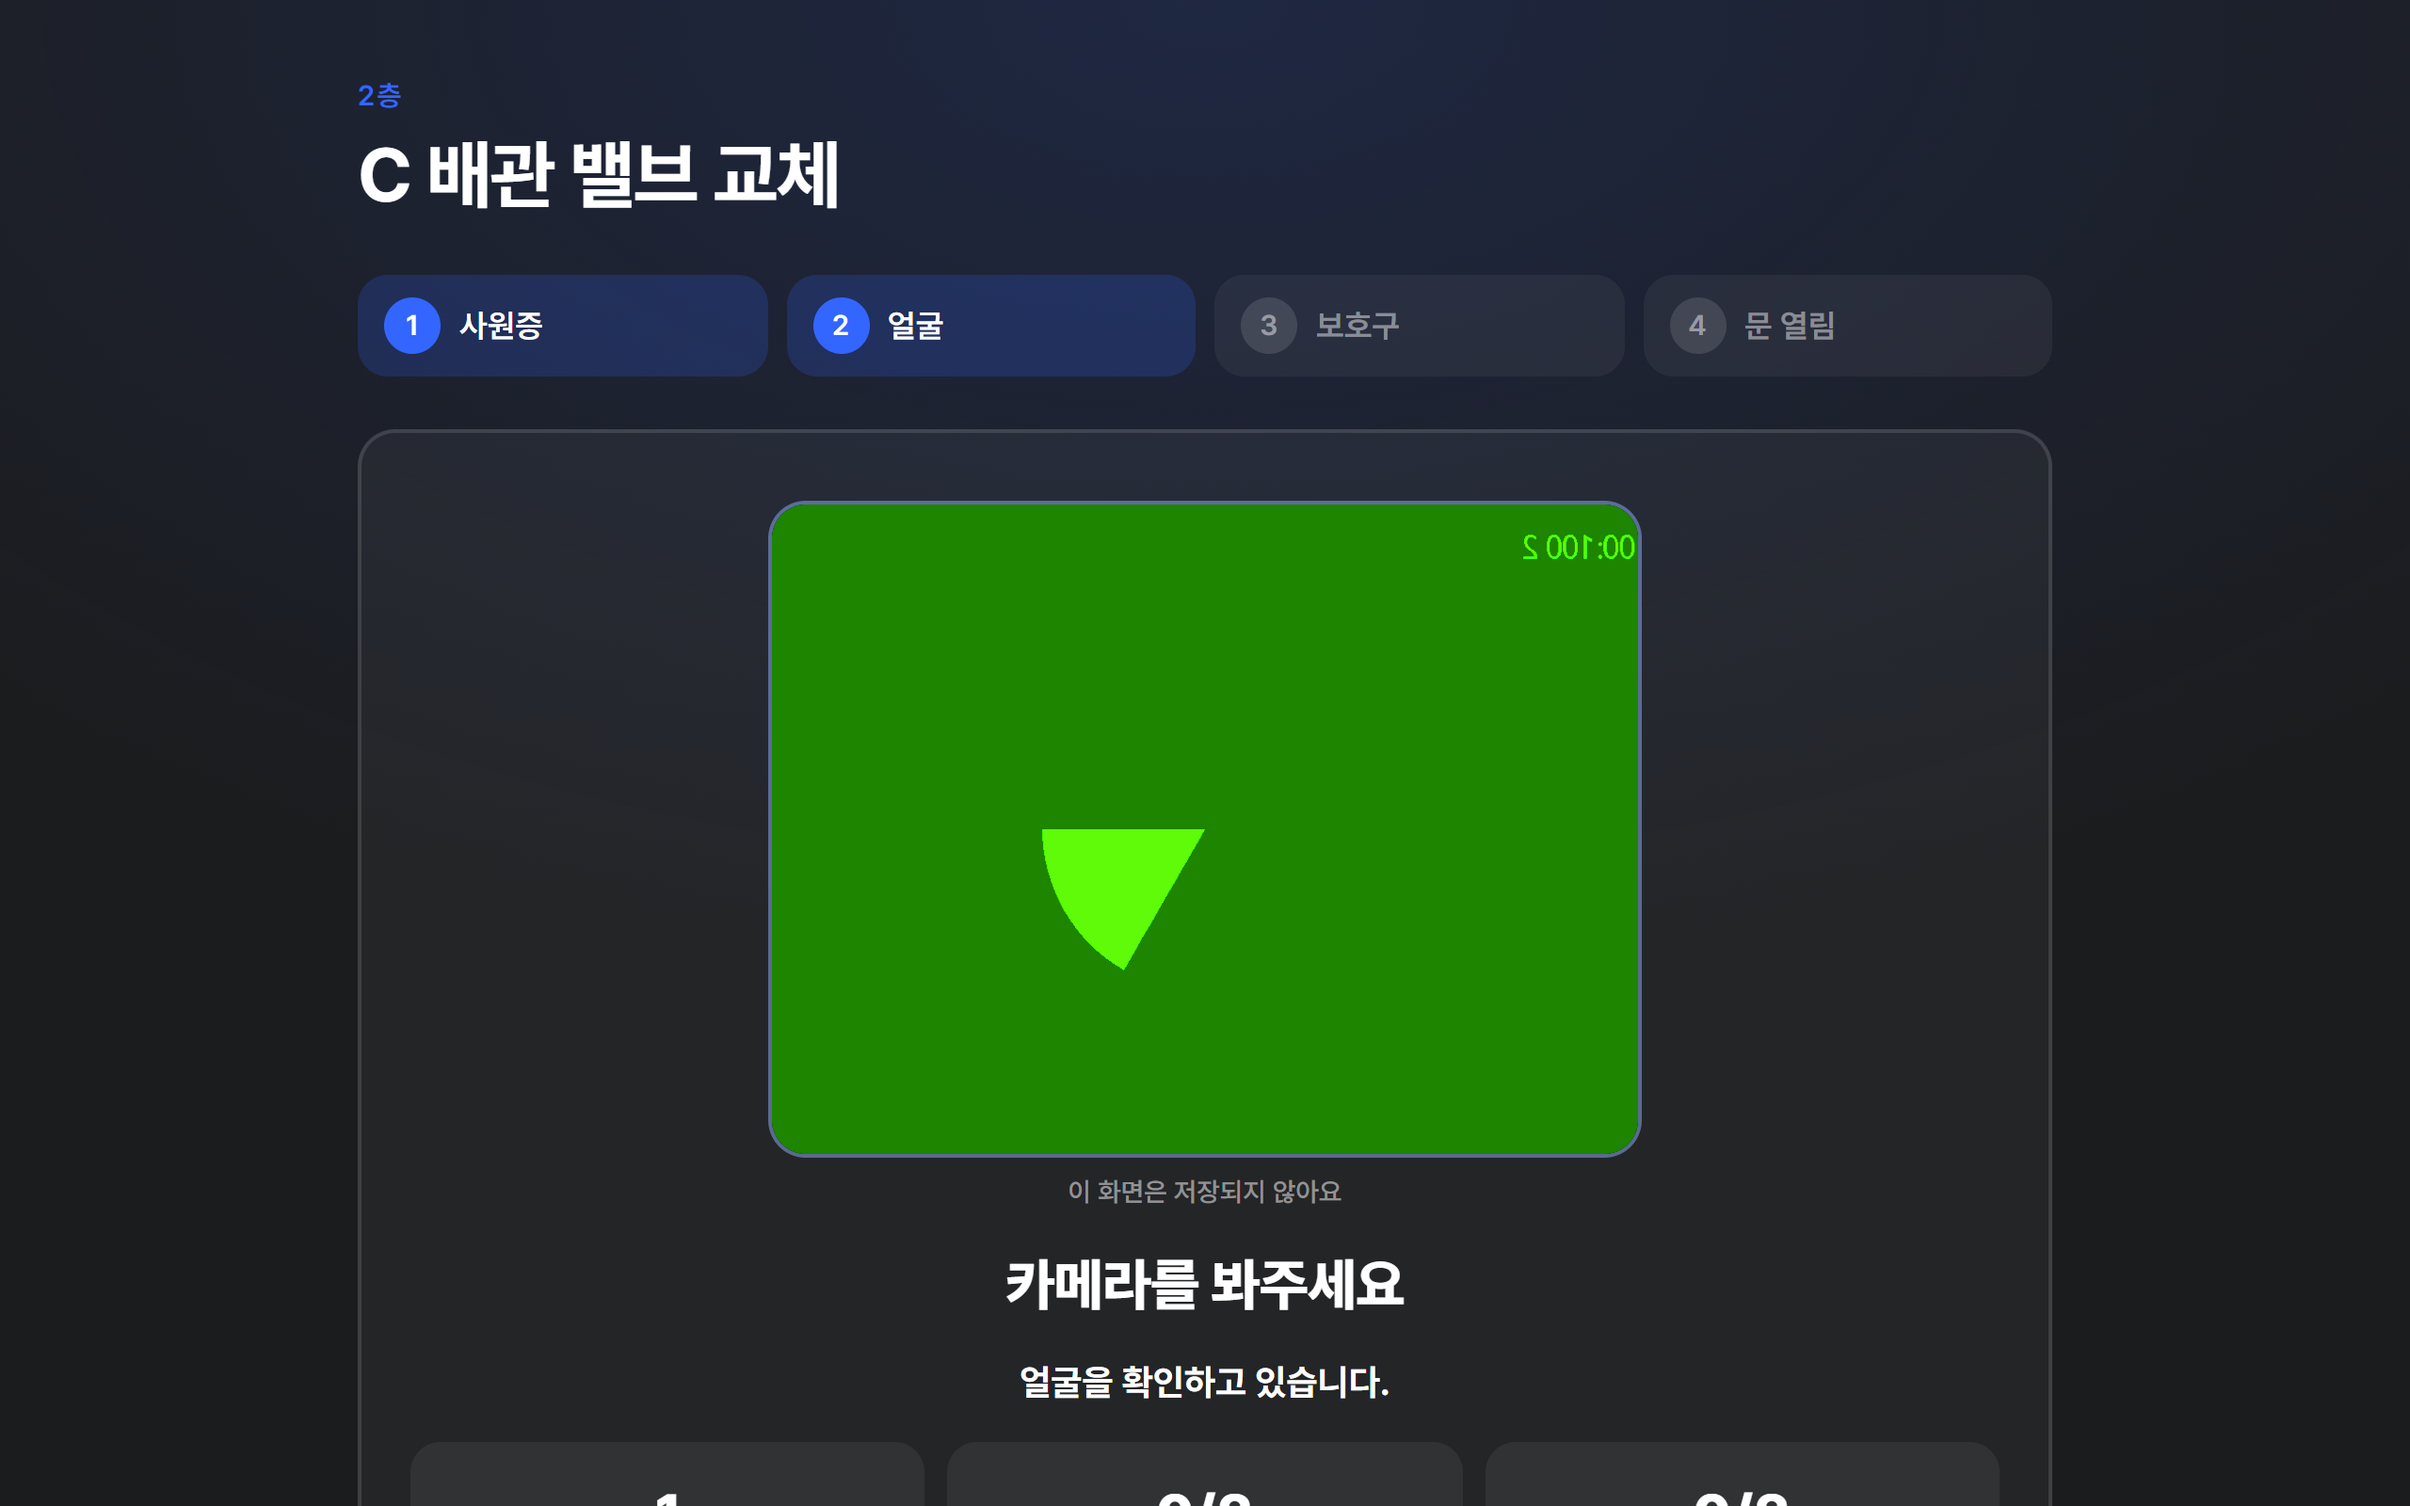
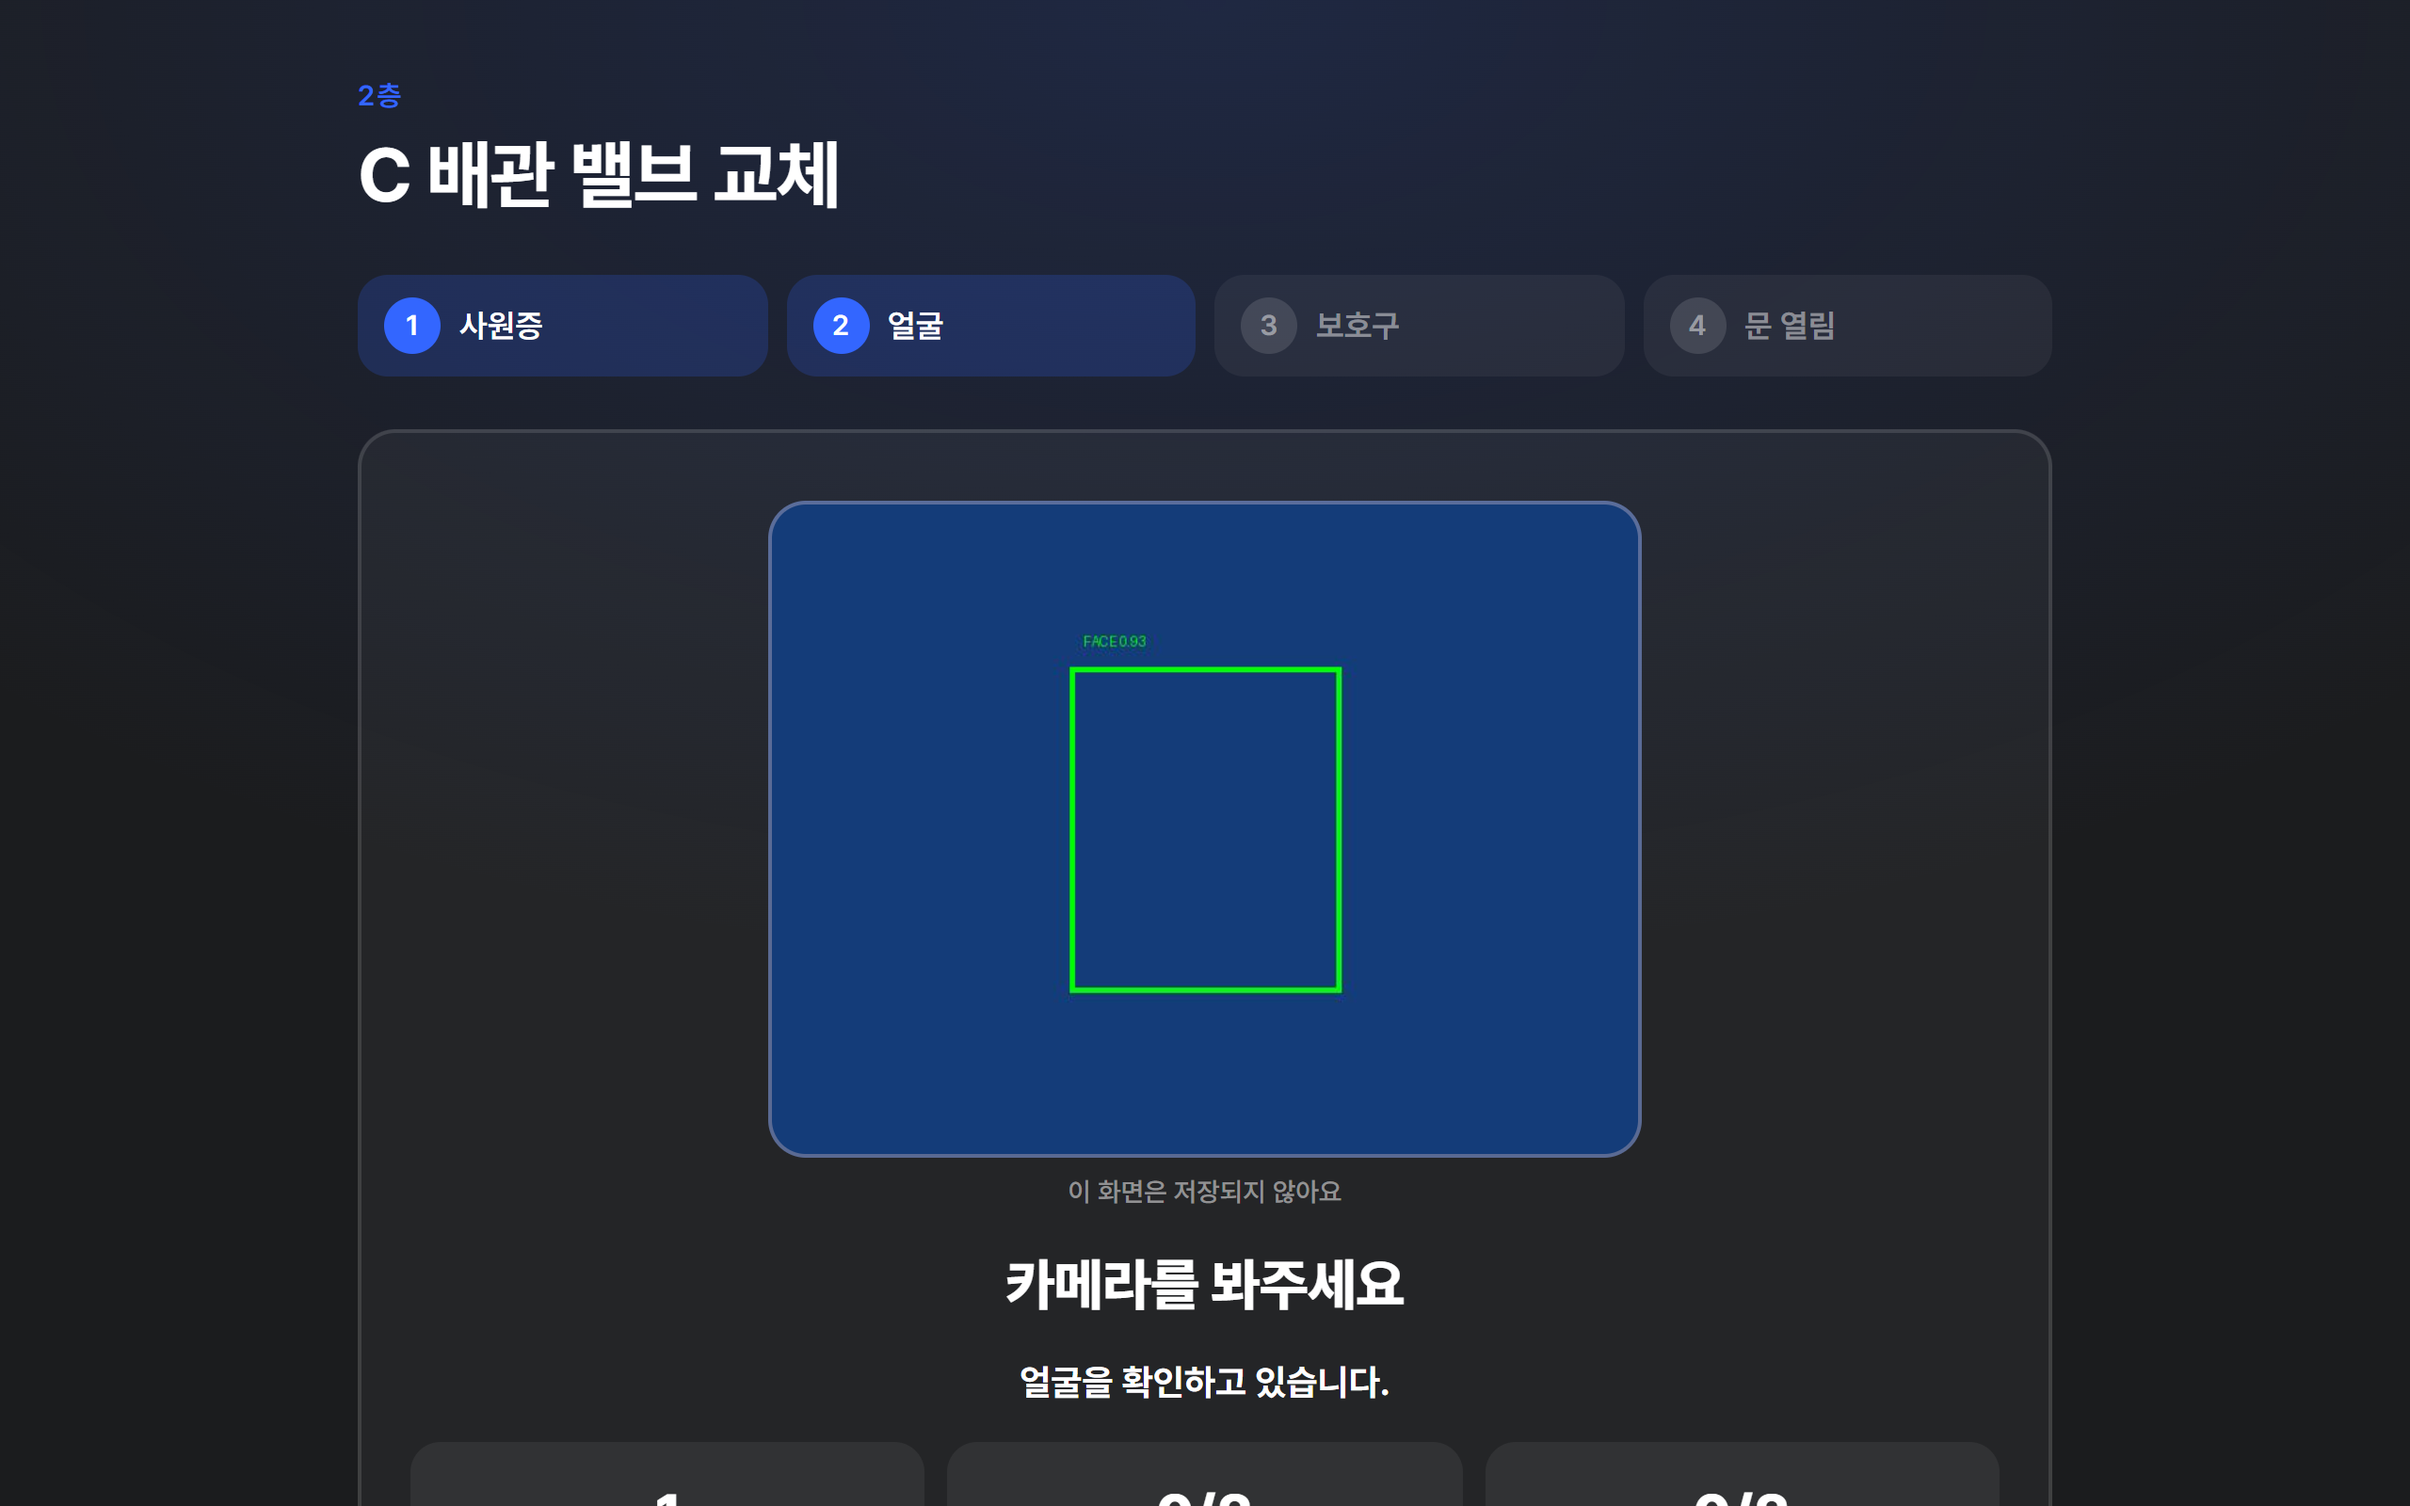
카메라 화면은 젯슨이 내보내는 인식 화면을 먼저 띄움
현장에서 검증 프로그램을 같이 켜자 카메라 화면이 뜨지 않았다. 카메라는 한
번에 한 프로그램만 쓸 수 있는데, 브라우저가 직접 켜려 했기 때문이다.

카메라를 가진 쪽(검증 프로그램)이 화면을 내보내고 키오스크는 받아 띄운다.
http://127.0.0.1:8090/stream.mjpg 를 먼저 찾고, 없을 때만 브라우저가 카메라를
켠다. 인식하면서 그린 박스와 결과가 그대로 보인다.

- 젯슨 화면은 그 기기 안(127.0.0.1)에서만 오간다. 서버로는 가지 않는다
- 단계가 끝나면 연결을 끊는다 (화면에서 빼는 것만으로는 안 끊겨 주소를 지움)
- 젯슨 화면은 뒤집지 않는다 (글자가 그려져 있음)

Changed region(s): [[0.3125, 0.3125, 0.6875, 0.7812]]

diff --git a/center-web/app/(kiosk)/kiosk/[gateId]/[requestId]/live/KioskCamera.tsx b/center-web/app/(kiosk)/kiosk/[gateId]/[requestId]/live/KioskCamera.tsx
@@ -1,29 +1,42 @@
 "use client";
 
-import { useEffect, useRef, useState } from "react";
+import { useCallback, useEffect, useRef, useState } from "react";
 import type { ReactNode } from "react";
 import styles from "../../../page.module.css";
 
 /* 얼굴 · 보호구를 확인하는 동안 보여주는 카메라 화면.
  *
  * 사원증을 대고 나면 "카메라를 봐주세요"가 뜨는데, 자기가 어떻게 잡히는지 안
- * 보이면 어디에 서야 하는지 알 수 없습니다. 그래서 확인하는 동안에만 이 기기의
- * 카메라를 켜서 보여줍니다. 이 컴포넌트는 얼굴 · 보호구 단계에서만 그려지고,
- * 단계가 끝나 사라지면서 카메라를 놓습니다.
+ * 보이면 어디에 서야 하는지 알 수 없습니다. 그래서 확인하는 동안에만 카메라
+ * 화면을 띄웁니다. 이 컴포넌트는 얼굴 · 보호구 단계에서만 그려지고, 단계가 끝나
+ * 사라지면서 연결과 카메라를 놓습니다.
  *
- * **미리보기일 뿐입니다.** 얼굴을 알아보는 것은 여전히 젯슨의 검증 프로그램이고,
- * 이 화면은 판정에 쓰이지 않습니다. 영상은 화면에 그리기만 합니다 — 캡처하지
- * 않고, 저장하지 않고, 서버로 보내지 않습니다.
+ * ── 화면을 어디서 가져오나 ───────────────────────────────────────────────
+ *   1. **젯슨의 검증 프로그램이 내보내는 화면** (STREAM_URL, 같은 기기의
+ *      127.0.0.1). 인식하면서 그린 그림(얼굴 박스 · 보호구 결과)이 그대로
+ *      보입니다. 먼저 이쪽을 찾습니다.
+ *   2. **이 기기의 카메라** (브라우저). 1번이 없을 때만.
  *
- * 주의 — 카메라는 보통 한 번에 한 프로그램만 쓸 수 있습니다. 젯슨의 검증
- * 프로그램이 이미 카메라를 잡고 있으면 여기서는 못 열고(아래 "failed"), 반대로
- * 여기가 먼저 잡으면 검증 프로그램이 못 열 수 있습니다. 그래서 확인하는 단계
- * 동안만 잡고 끝나면 바로 놓습니다. 같이 쓰기 어렵다고 확인되면, 젯슨이 인식
- * 화면을 내보내고 여기서는 그걸 받아 띄우는 쪽으로 바꿔야 합니다. */
+ * 1번을 먼저 찾는 이유 — 카메라는 보통 한 번에 한 프로그램만 쓸 수 있습니다.
+ * 처음엔 브라우저가 바로 카메라를 켜게 했는데, 현장에서 검증 프로그램을 같이
+ * 켜자 화면이 뜨지 않았습니다(검증 프로그램이 카메라를 잡고 있음). 카메라를
+ * 나눠 쓰려고 다투는 대신, 카메라를 가진 쪽이 화면을 내보내고 여기서는 받아
+ * 띄우기만 합니다.
+ *
+ * ── 얼굴 영상은 서버로 가지 않습니다 ─────────────────────────────────────
+ * 어느 쪽이든 화면에 그리기만 합니다. 캡처하지 않고, 저장하지 않고, 보내지
+ * 않습니다. 젯슨 화면은 그 기기 안(127.0.0.1)에서만 오갑니다. 얼굴을 알아보는
+ * 것은 여전히 젯슨이고, 이 화면은 판정에 쓰이지 않습니다. */
+
+const STREAM_URL =
+  process.env.NEXT_PUBLIC_KIOSK_CAMERA_URL || "http://127.0.0.1:8090/stream.mjpg";
+/** 젯슨 화면의 첫 장면이 이 시간 안에 안 오면 없는 것으로 봅니다. */
+const STREAM_WAIT_MS = 2_000;
 
 type Mode =
-  | "starting"
-  | "on"
+  | "checking" // 젯슨 화면이 오는지 보는 중
+  | "stream" // 젯슨 화면
+  | "device" // 이 기기의 카메라
   | "denied" // 브라우저가 카메라 권한을 안 줌
   | "failed"; // 카메라가 없거나 다른 프로그램이 쓰는 중
 
@@ -43,48 +56,95 @@ async function preferColor(stream: MediaStream): Promise<MediaStream> {
 }
 
 export function KioskCamera({ fallback }: { fallback: ReactNode }) {
-  const [mode, setMode] = useState<Mode>("starting");
+  const [mode, setMode] = useState<Mode>("checking");
   const video = useRef<HTMLVideoElement>(null);
   const media = useRef<MediaStream | null>(null);
+  const alive = useRef(true);
+  const decided = useRef(false);
+  // 주소 뒤에 시각을 붙여, 브라우저가 지난번에 실패한 결과를 다시 쓰지 않게 합니다.
+  const [src] = useState(
+    () => `${STREAM_URL}${STREAM_URL.includes("?") ? "&" : "?"}t=${Date.now()}`,
+  );
+
+  /** 젯슨 화면이 없을 때 이 기기의 카메라를 켭니다. */
+  const openDevice = useCallback(async () => {
+    if (decided.current) return;
+    decided.current = true;
+    try {
+      const first = await navigator.mediaDevices.getUserMedia({
+        video: { facingMode: "user", width: { ideal: 960 }, height: { ideal: 720 } },
+        audio: false,
+      });
+      const stream = await preferColor(first).catch(() => first);
+      if (!alive.current) {
+        // 기다리는 사이 단계가 끝났습니다. 잡은 카메라를 바로 놓습니다.
+        stream.getTracks().forEach((t) => t.stop());
+        return;
+      }
+      media.current = stream;
+      setMode("device");
+    } catch (e) {
+      if (!alive.current) return;
+      setMode((e as { name?: string }).name === "NotAllowedError" ? "denied" : "failed");
+    }
+  }, []);
+
+  /* 화면에서 빼는 것만으로는 브라우저가 연결을 바로 끊지 않습니다. 주소를 지워야
+     끊깁니다 — 안 끊으면 사람이 바뀔 때마다 연결이 하나씩 쌓입니다.
+     (함수를 고정해 두지 않으면 다시 그릴 때마다 끊었다 붙였다 합니다.) */
+  const attachStream = useCallback(
+    (node: HTMLImageElement | null) => {
+      if (!node) return;
+      if (!node.getAttribute("src")) node.src = src;
+      return () => node.removeAttribute("src");
+    },
+    [src],
+  );
 
   useEffect(() => {
-    let alive = true;
-    void (async () => {
-      try {
-        const first = await navigator.mediaDevices.getUserMedia({
-          video: { facingMode: "user", width: { ideal: 960 }, height: { ideal: 720 } },
-          audio: false,
-        });
-        const stream = await preferColor(first).catch(() => first);
-        if (!alive) {
-          // 기다리는 사이 단계가 끝났습니다. 잡은 카메라를 바로 놓습니다.
-          stream.getTracks().forEach((t) => t.stop());
-          return;
-        }
-        media.current = stream;
-        setMode("on");
-      } catch (e) {
-        if (!alive) return;
-        setMode((e as { name?: string }).name === "NotAllowedError" ? "denied" : "failed");
-      }
-    })();
+    alive.current = true;
+    decided.current = false;
+    const wait = setTimeout(() => void openDevice(), STREAM_WAIT_MS);
     return () => {
-      alive = false;
+      alive.current = false;
+      clearTimeout(wait);
       // 단계가 끝나면 카메라를 놓습니다. 잡고 있으면 다른 프로그램이 못 엽니다.
       media.current?.getTracks().forEach((t) => t.stop());
       media.current = null;
     };
-  }, []);
+  }, [openDevice]);
 
   useEffect(() => {
-    if (mode !== "on" || !video.current || !media.current) return;
+    if (mode !== "device" || !video.current || !media.current) return;
     video.current.srcObject = media.current;
     void video.current.play().catch(() => undefined);
   }, [mode]);
 
-  if (mode === "on") {
-    return (
-      <div className={styles.camera}>
+  const showing = mode === "stream" || mode === "device";
+
+  return (
+    <div className={styles.camera}>
+      {mode === "checking" || mode === "stream" ? (
+        // 젯슨이 내보내는 MJPEG. 최적화(next/image)를 거치면 스트림이 끊깁니다.
+        // eslint-disable-next-line @next/next/no-img-element
+        <img
+          ref={attachStream}
+          src={src}
+          alt="카메라 화면"
+          className={
+            mode === "stream"
+              ? `${styles.cameraView} ${styles.cameraStream}`
+              : styles.cameraProbe
+          }
+          onLoad={() => {
+            if (decided.current) return;
+            decided.current = true;
+            setMode("stream");
+          }}
+          onError={() => void openDevice()}
+        />
+      ) : null}
+      {mode === "device" ? (
         <video
           ref={video}
           className={styles.cameraView}
@@ -92,25 +152,26 @@ export function KioskCamera({ fallback }: { fallback: ReactNode }) {
           playsInline
           aria-label="카메라 화면"
         />
-        <span className={styles.cameraNote}>이 화면은 저장되지 않아요</span>
-      </div>
-    );
-  }
+      ) : null}
 
-  return (
-    <div className={styles.camera}>
-      {fallback}
-      {mode === "denied" ? (
-        <span className={styles.cameraNote}>
-          브라우저가 카메라를 막고 있어요. 주소창의 카메라 권한을 허용해 주세요.
-        </span>
-      ) : null}
-      {mode === "failed" ? (
-        <span className={styles.cameraNote}>
-          카메라를 화면에 띄우지 못했어요 (없거나 다른 프로그램이 쓰는 중). 확인은
-          그대로 진행돼요.
-        </span>
-      ) : null}
+      {showing ? (
+        <span className={styles.cameraNote}>이 화면은 저장되지 않아요</span>
+      ) : (
+        <>
+          {fallback}
+          {mode === "denied" ? (
+            <span className={styles.cameraNote}>
+              브라우저가 카메라를 막고 있어요. 주소창의 카메라 권한을 허용해 주세요.
+            </span>
+          ) : null}
+          {mode === "failed" ? (
+            <span className={styles.cameraNote}>
+              카메라 화면을 띄우지 못했어요 (검증 프로그램이 화면을 내보내지 않고,
+              카메라는 다른 프로그램이 쓰는 중). 확인은 그대로 진행돼요.
+            </span>
+          ) : null}
+        </>
+      )}
     </div>
   );
 }

diff --git a/center-web/app/(kiosk)/kiosk/page.module.css b/center-web/app/(kiosk)/kiosk/page.module.css
@@ -546,6 +546,20 @@
   transform: scaleX(-1);
 }
 
+/* 젯슨이 내보낸 화면은 뒤집지 않습니다 — 인식 결과가 글자로 그려져 있습니다. */
+.cameraStream {
+  transform: none;
+}
+
+/* 젯슨 화면이 오는지 보는 동안. 자리를 차지하지 않게 숨깁니다. */
+.cameraProbe {
+  position: absolute;
+  width: 1px;
+  height: 1px;
+  opacity: 0;
+  pointer-events: none;
+}
+
 .cameraNote {
   max-width: 460px;
   font-size: 14px;
